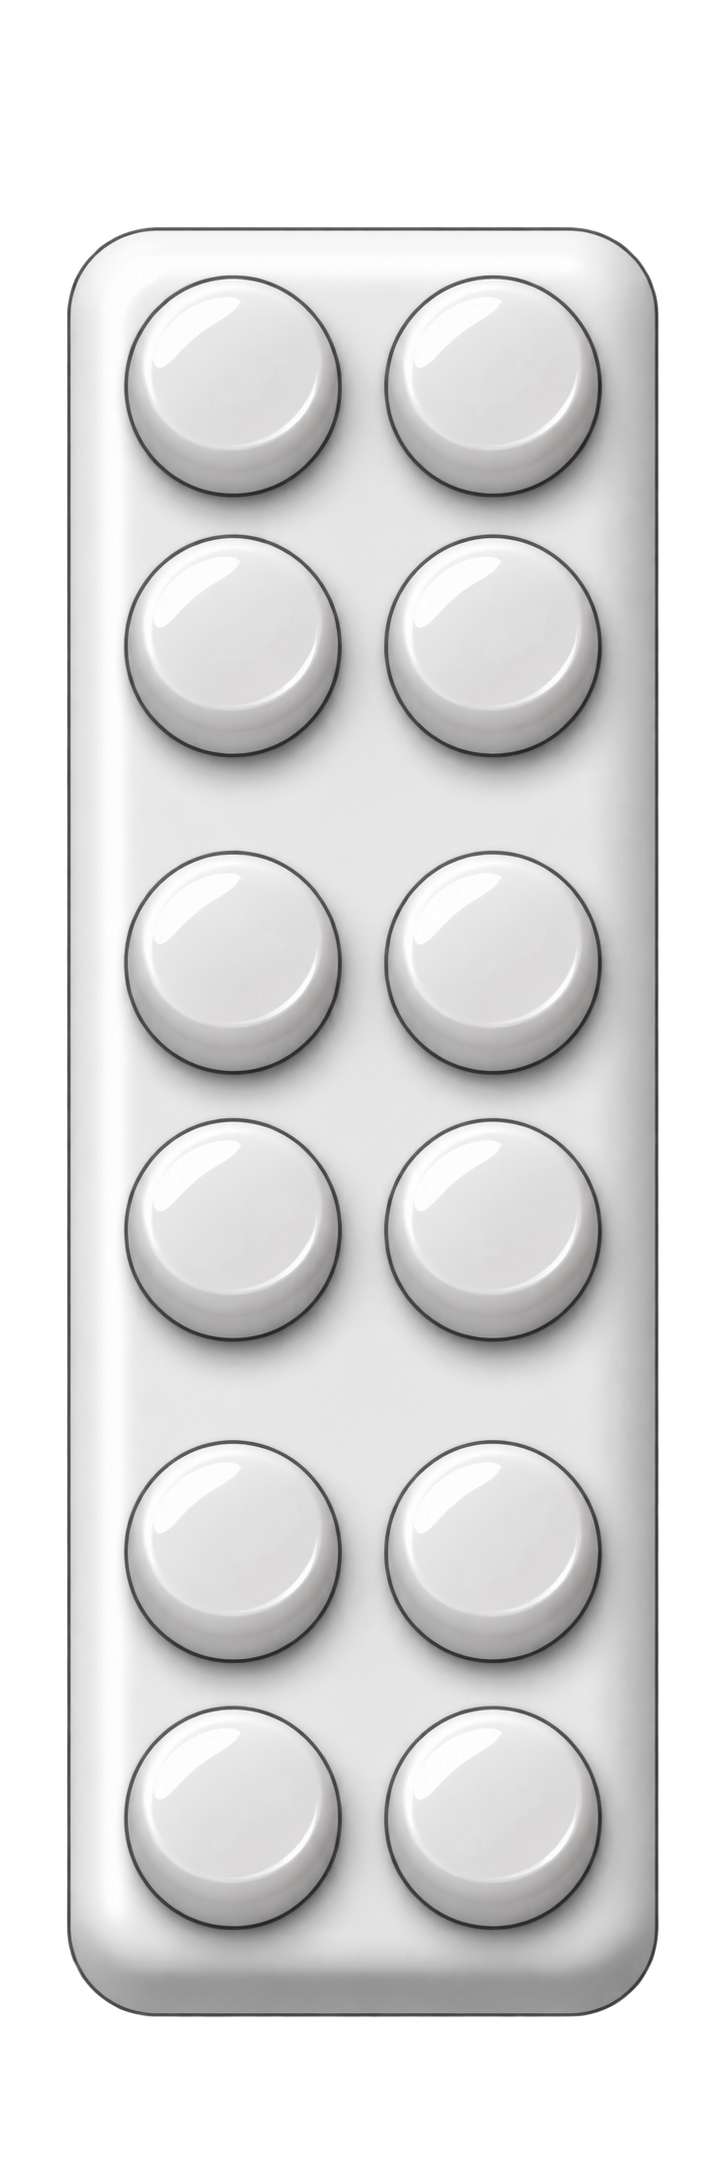
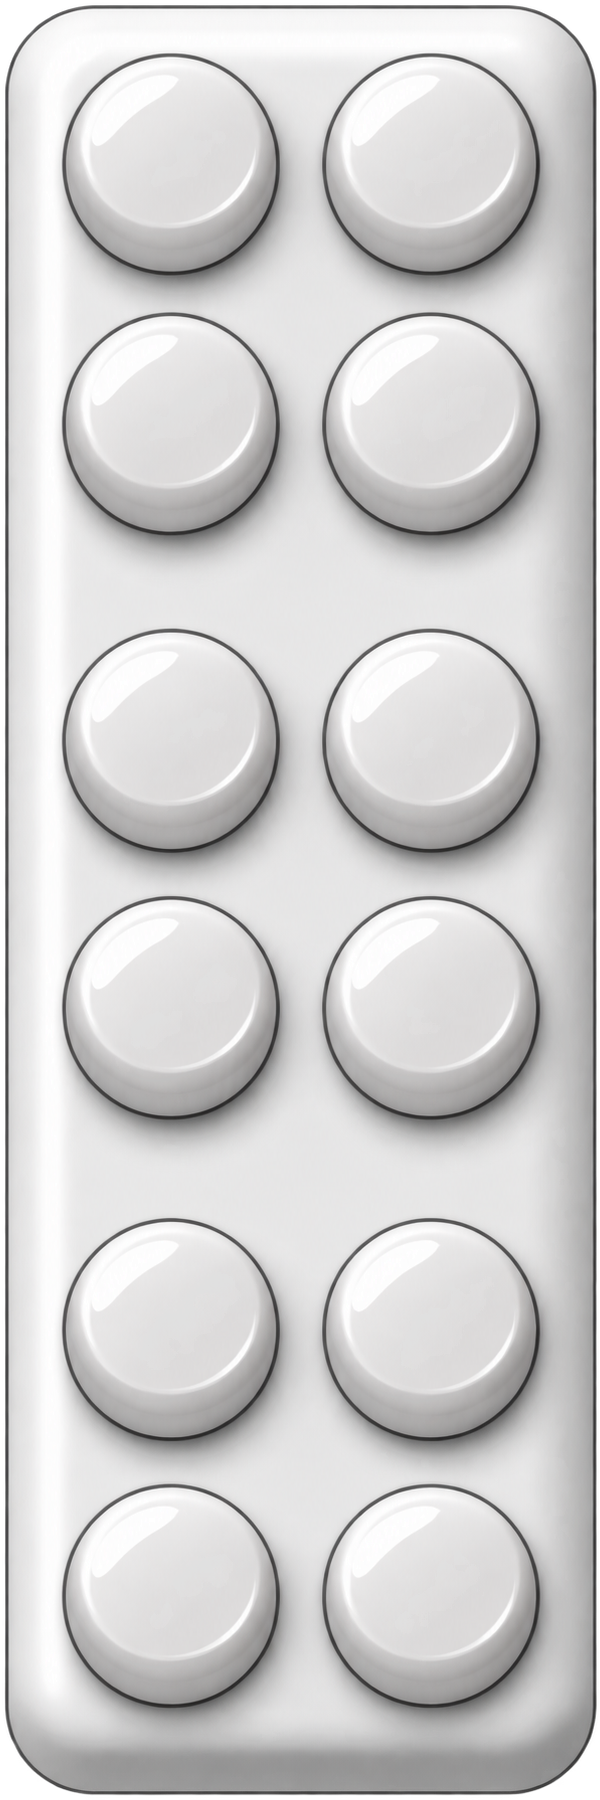
small uı changes

diff --git a/Docs/Presentation.md b/Docs/Presentation.md
@@ -22,7 +22,7 @@ Presentation slots are pooled state. Every renter must receive reset sprite, mat
 
 Gameplay colliders and board cells remain unchanged when presentation switches between these paths:
 
-1. Use an exact artist-authored atlas silhouette when the normalized module shape has a configured match.
+1. Use an exact artist-authored atlas silhouette when the normalized module shape has a configured match. Straight `3x1` and `4x1` obstacle runs use their matching `map.png` sprites instead of sliced fallback rectangles.
 2. Otherwise compose contiguous horizontal and vertical runs from joined fallback sprites.
 3. Use individual 1x1 modules only for cells not covered by an exact or joined presentation.
 
